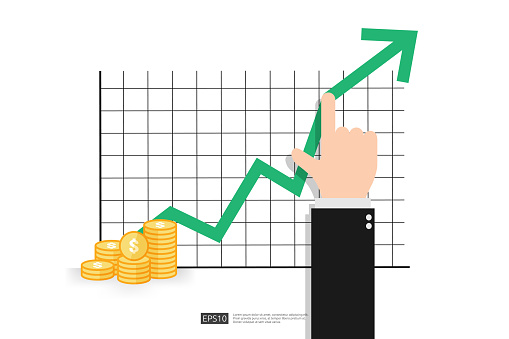
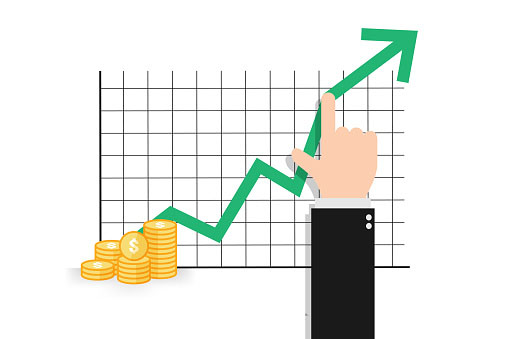
primer hero

diff --git a/index.html b/index.html
@@ -24,5 +24,18 @@
             <a href="#" class="button">Contacto</a>
         </div>
     </header>
+    <section id="hero">
+        <div class="container-hero">
+            <div class="title-hero">
+                <h2>Invierte en un futuro mejor</h2>
+            </div>
+            <div class="info-hero">
+                <p> En Greenbock Investments unimos la causa y el efecto</p>
+            </div>
+            <div class="img-hero">
+                <img src="img/grafico mano.jpg" alt="gráfico">
+            </div>
+        </div>
+    </section>
 </body>
 </html>
